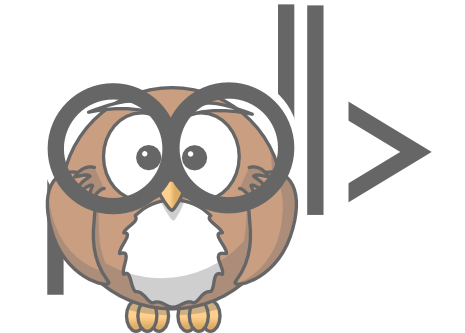
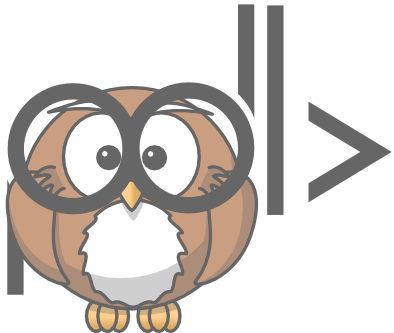
Fix issue with owl moving to the bottom of the page.

Changed region(s): [[0.0, 0.2402, 0.5482, 1.0], [0.5482, 0.0, 1.0, 0.8108]]

diff --git a/content/tutorials.html b/content/tutorials.html
@@ -1,7 +1,14 @@
 
 <h1 class='title'>PDL Tutorials</h1>
 
-<div style="display:table; float:left">
+<style type="text/css">
+.owl-bg {
+    width: 75%;
+    display: table;
+    background: url('images/pdl-owl-glasses.png') right center no-repeat;
+}
+</style>
+<div class="owl-bg">
 <h2>Foundation</h2>
 
 <ul>
@@ -25,6 +32,4 @@
  <li><a href="?docs=Internals&title=PDL Internals">PDL Internals</a></li> 
 </ul>
 </div>
-
-<img src="images/pdl-owl-glasses.png"/>
 
